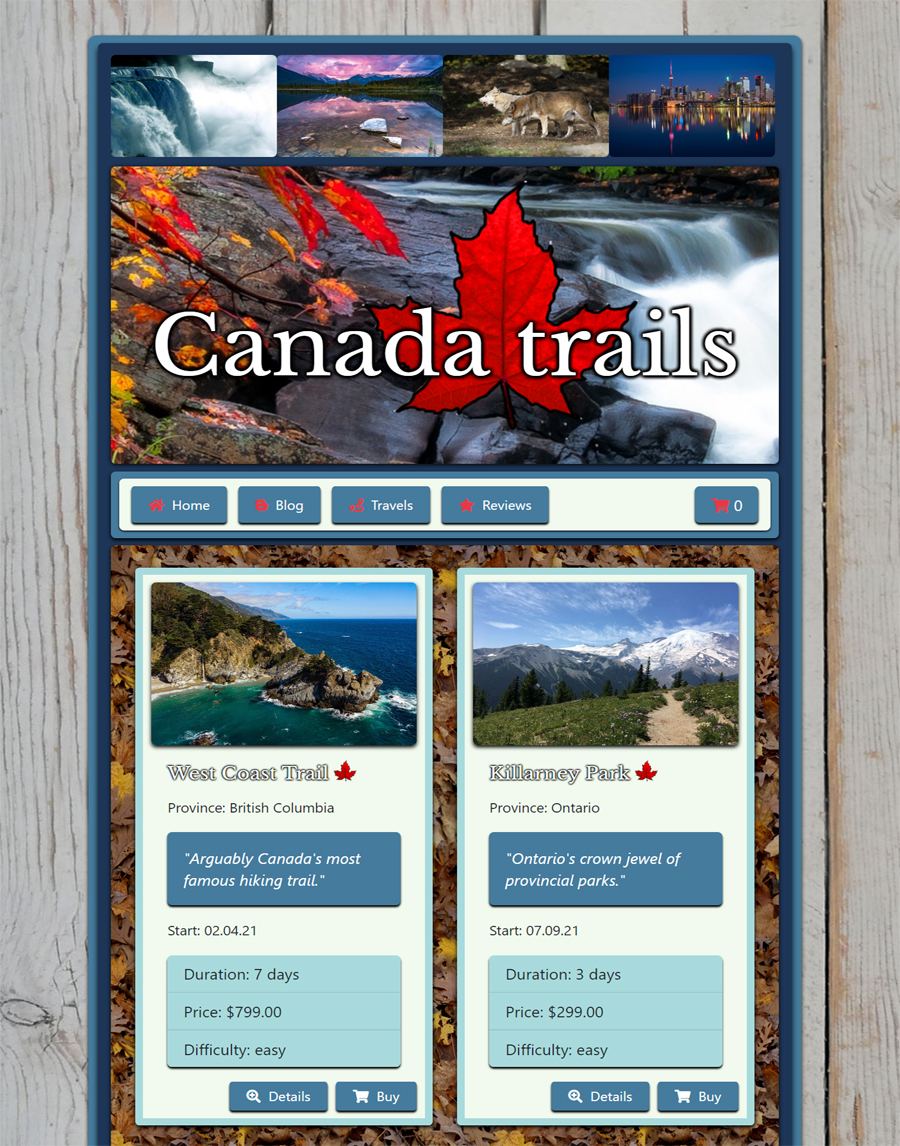
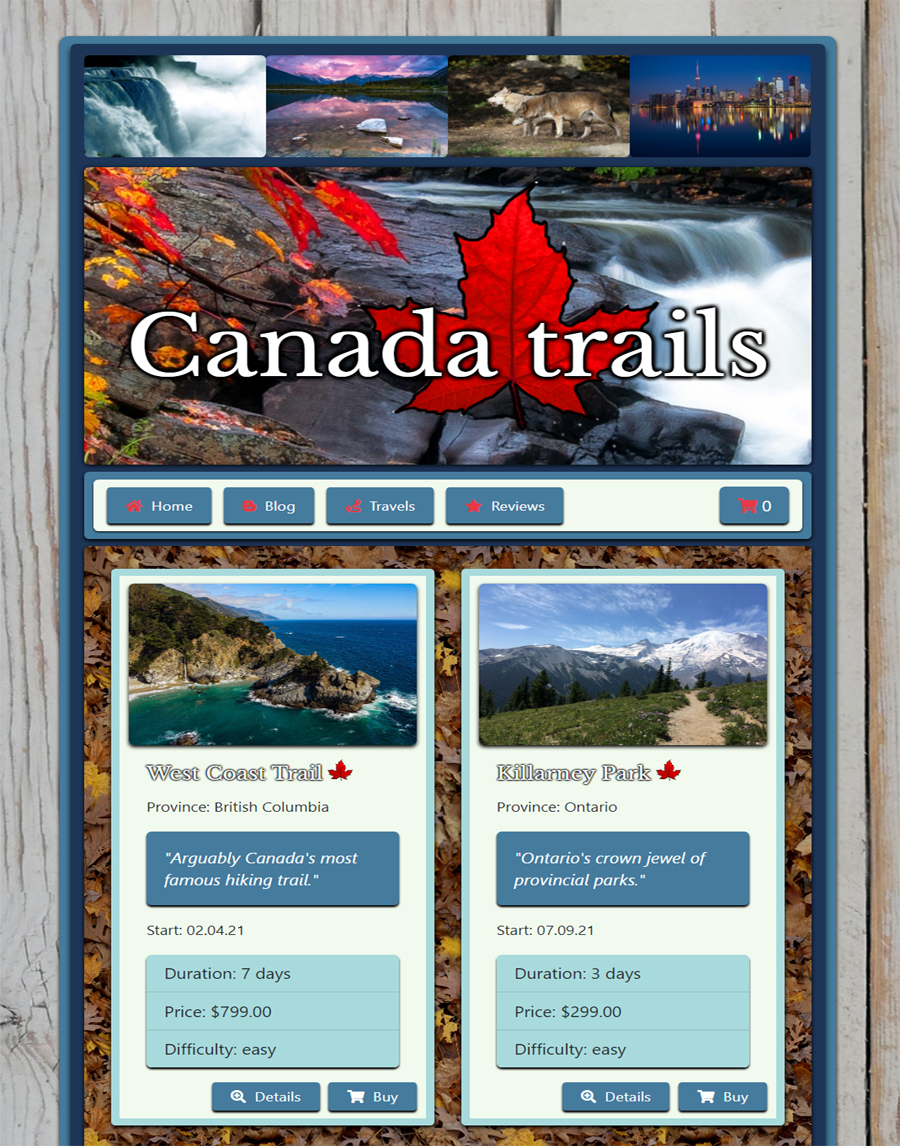
add signature link footer

diff --git a/src/app/foo-bar/foo-bar.component.html b/src/app/foo-bar/foo-bar.component.html
@@ -10,13 +10,13 @@
   </div>
   <div class="itsMe mb-3">
     <div class="sigNature mx-3 p-2">
-      <span style="color: red">::</span>&nbsp;This is coded by&nbsp;<span
-        style="color: rgb(255, 88, 241)"
-        >&#123;</span
-      ><span style="color: yellow">&#123;</span>me<span style="color: yellow"
-        >&#125;</span
-      ><span style="color: rgb(255, 88, 241)">&#125;</span>&nbsp;using
-      HTML&nbsp;<img src="assets/icons/html.svg" />, CSS&nbsp;<img
+      <span style="color: red">::</span>&nbsp;This is coded by&nbsp;<a
+        href="http://github.com/Semintra"
+        ><span style="color: rgb(255, 88, 241)">&#123;</span
+        ><span style="color: yellow">&#123;</span>me<span style="color: yellow"
+          >&#125;</span
+        ><span style="color: rgb(255, 88, 241)">&#125;</span></a
+      >&nbsp;using HTML&nbsp;<img src="assets/icons/html.svg" />, CSS&nbsp;<img
         src="assets/icons/css.svg"
       />,&nbsp;<img src="assets/icons/sass.svg" />
       ,

diff --git a/src/app/foo-bar/foo-bar.component.scss b/src/app/foo-bar/foo-bar.component.scss
@@ -39,6 +39,11 @@
   // border: 1px solid yellow;
 }
 
+a {
+  text-decoration: none;
+  color: white;
+}
+
 // div[class^="itsMe"] {
 //   font-size: calc(0.6vw + 0.6vh + 0.3vmin);
 //   background: rgba(0, 0, 0, 0.8);

diff --git a/src/app/foo-bar/foo-bar.component.css b/src/app/foo-bar/foo-bar.component.css
@@ -48,4 +48,9 @@
   -ms-flex-wrap: nowrap;
       flex-wrap: nowrap;
 }
+
+a {
+  text-decoration: none;
+  color: white;
+}
 /*# sourceMappingURL=foo-bar.component.css.map */
